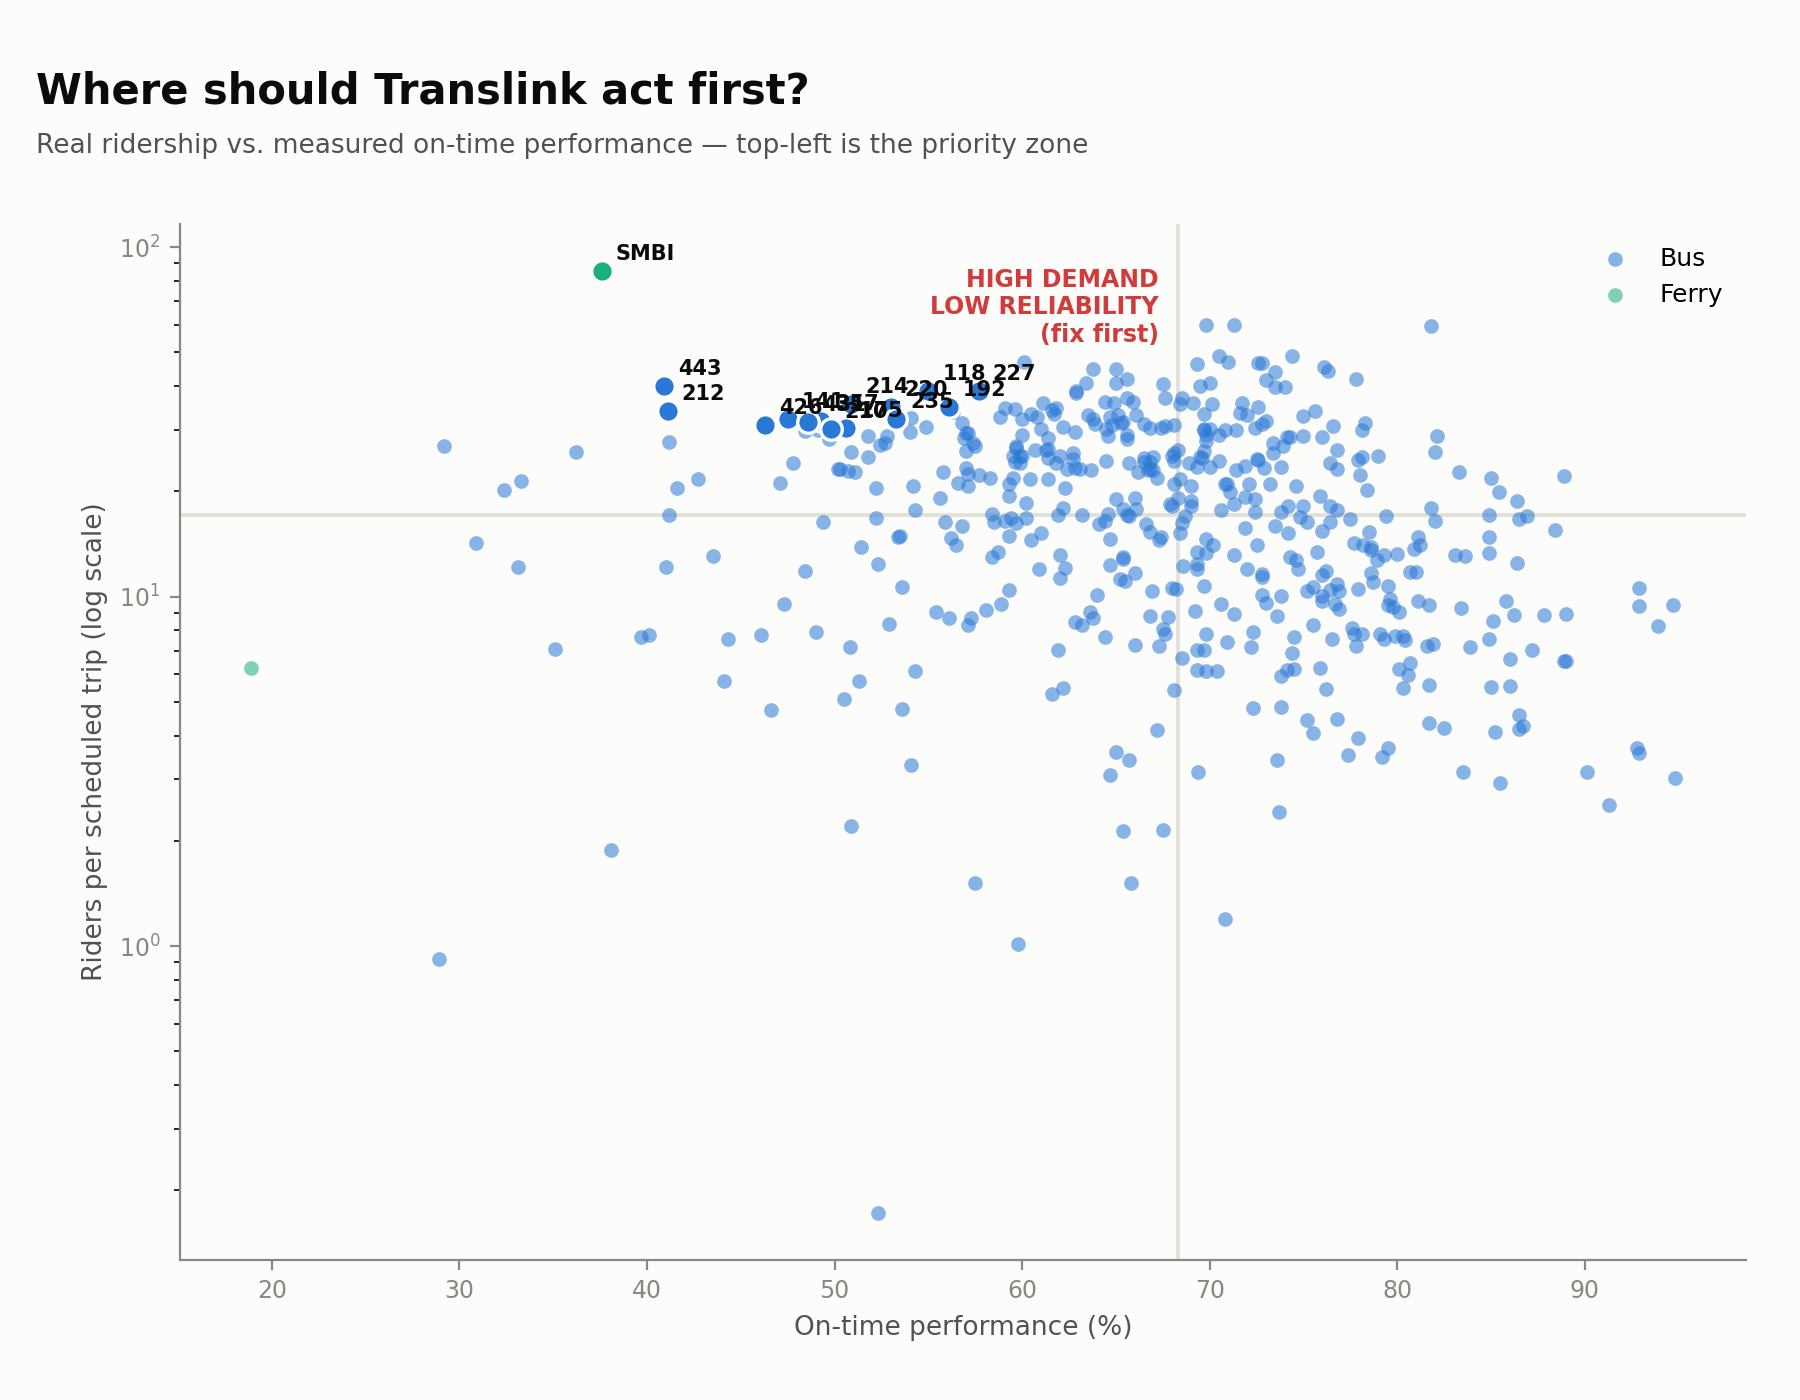
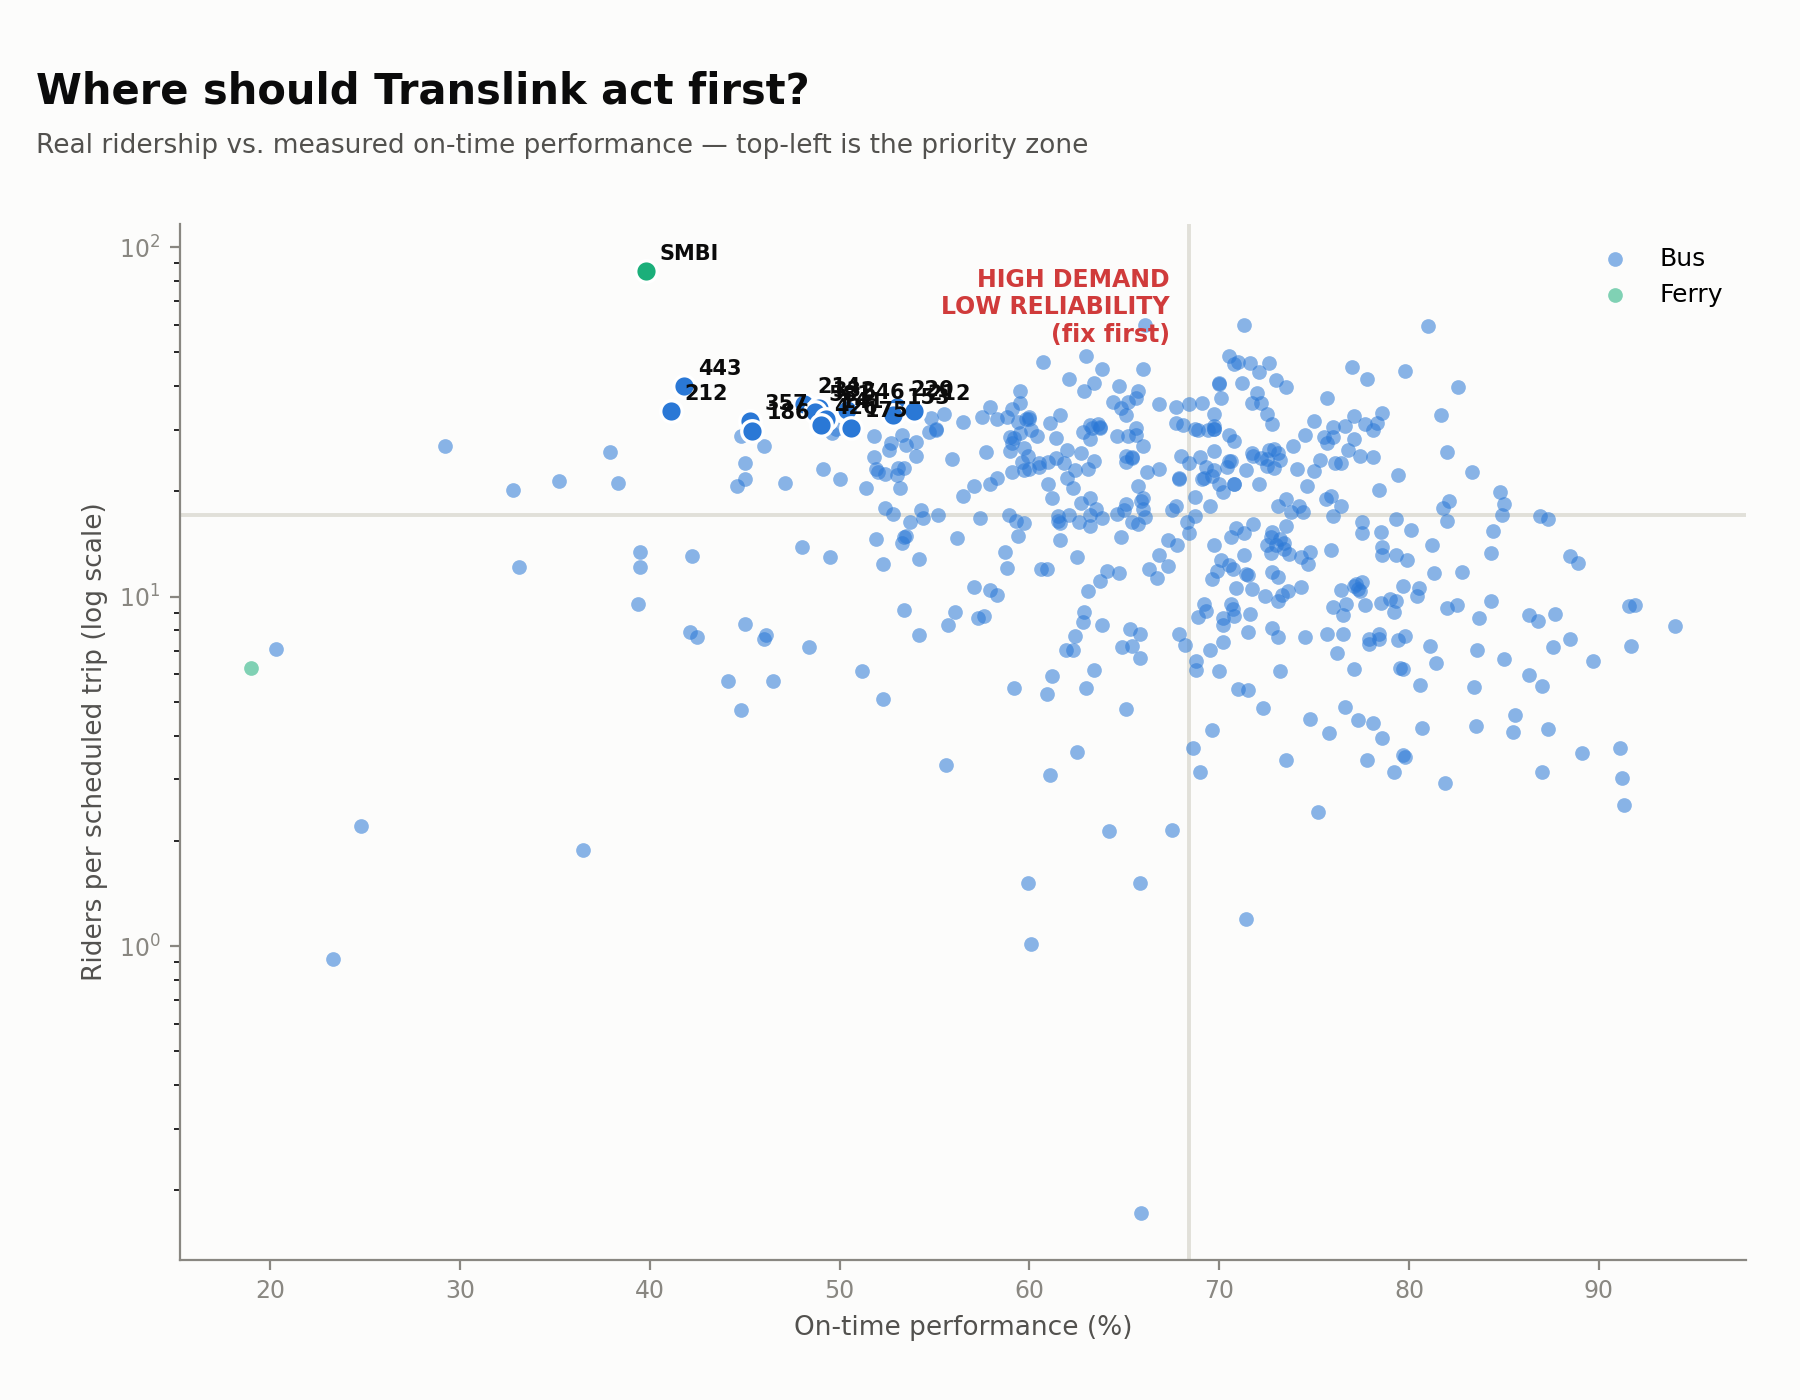
Add scripts/refresh_all.py: one command to regenerate everything
Replaces what had become a manual, easy-to-get-wrong ritual of
running six-plus notebooks/*.py scripts by hand in the right order
every time fresh numbers were needed.

- scripts/refresh_all.py: runs `dbt run` once, then every findings/
  chart script, then the CSV/XLSX exports, in dependency order. Each
  runs in its own subprocess so one failure doesn't abort the rest;
  prints a pass/fail summary and the poller's status at the end.
  Regenerates local files only — doesn't touch git.
- Fixed real duplicated work this surfaced: realtime_summary.py and
  demand_intelligence.py each independently triggered a full `dbt
  run` (including the ~70s mart_stop_delay rebuild) when run back to
  back. Added a SKIP_DBT_REFRESH guard so the orchestrator's single
  upfront run covers both.
- `make refresh` / `make refresh-fast` as a thin convenience wrapper.
- Docs and charts in this commit are a real regeneration from the
  pipeline's first end-to-end run (poller now at 2000+ polls, ~85h).

diff --git a/scripts/refresh_all.py b/scripts/refresh_all.py
@@ -1,0 +1,127 @@
+"""Regenerate every finding, chart, and export in this repo from whatever
+data is currently loaded — the one-command version of what had become a
+manual, error-prone ritual of running six-plus scripts in the right order
+by hand.
+
+Runs `dbt run` exactly once up front (each script that needs the marts
+skips its own internal refresh via SKIP_DBT_REFRESH — see
+notebooks/realtime_summary.py / demand_intelligence.py), then runs every
+notebooks/*.py script that produces a findings doc or chart, in dependency
+order. One script failing doesn't abort the rest — each runs in its own
+subprocess, failures are collected and reported at the end, and the exit
+code reflects whether anything failed.
+
+Does NOT touch git — regenerates files locally only. Review the diff
+(`git status`, `git diff`) and commit yourself; this deliberately stops
+short of auto-committing/pushing to a public repo without a look first.
+
+Usage:
+    python scripts/refresh_all.py
+    python scripts/refresh_all.py --skip-exports   # skip the CSV/XLSX dumps (slower, rarely needed)
+"""
+
+from __future__ import annotations
+
+import argparse
+import os
+import subprocess
+import sys
+import time
+from pathlib import Path
+
+REPO_ROOT = Path(__file__).resolve().parents[1]
+DBT_DIR = REPO_ROOT / "dbt"
+VENV_PYTHON = REPO_ROOT / ".venv" / "bin" / "python"
+
+PIPELINE = [
+    "notebooks/network_summary.py",
+    "notebooks/realtime_summary.py",
+    "notebooks/demand_intelligence.py",
+    "notebooks/priority_routes.py",
+    "notebooks/manly_lota_service_gap.py",
+    "notebooks/density_heatmaps.py",
+    "notebooks/hero_dashboard.py",
+]
+EXPORT_SCRIPTS = [
+    "notebooks/export_week2_data.py",
+    "notebooks/export_demand_data.py",
+]
+
+
+def _env() -> dict:
+    from dotenv import dotenv_values
+
+    return {**os.environ, **dotenv_values(REPO_ROOT / ".env")}
+
+
+def run_dbt() -> bool:
+    print("=== dbt run (once, shared by every script below) ===")
+    env = {**_env(), "DBT_PROFILES_DIR": str(DBT_DIR)}
+    result = subprocess.run(["dbt", "run"], cwd=DBT_DIR, env=env, capture_output=True, text=True, check=False)
+    print(result.stdout[-1500:])
+    if result.returncode != 0:
+        print(result.stderr[-1500:])
+        print("dbt run FAILED — downstream scripts will likely fail too, continuing anyway")
+        return False
+    return True
+
+
+def run_script(rel_path: str) -> tuple[str, bool, float]:
+    print(f"\n=== {rel_path} ===")
+    python = str(VENV_PYTHON) if VENV_PYTHON.exists() else sys.executable
+    env = {**_env(), "SKIP_DBT_REFRESH": "1"}
+    start = time.monotonic()
+    result = subprocess.run([python, rel_path], cwd=REPO_ROOT, env=env, capture_output=True, text=True, check=False)
+    elapsed = time.monotonic() - start
+    print(result.stdout[-1500:])
+    ok = result.returncode == 0
+    if not ok:
+        print(result.stderr[-1500:])
+        print(f"FAILED ({elapsed:.0f}s)")
+    else:
+        print(f"OK ({elapsed:.0f}s)")
+    return rel_path, ok, elapsed
+
+
+def poller_status() -> str:
+    check = subprocess.run(
+        ["pgrep", "-fl", "ingestion.gtfs_realtime_poller"], capture_output=True, text=True, check=False
+    )
+    return "running" if check.stdout.strip() else "NOT running"
+
+
+def main() -> int:
+    parser = argparse.ArgumentParser(description=__doc__)
+    parser.add_argument("--skip-exports", action="store_true", help="Skip the CSV/XLSX export scripts")
+    args = parser.parse_args()
+
+    results: list[tuple[str, bool, float]] = []
+
+    dbt_ok = run_dbt()
+    results.append(("dbt run", dbt_ok, 0.0))
+
+    for script in PIPELINE:
+        results.append(run_script(script))
+
+    if not args.skip_exports:
+        for script in EXPORT_SCRIPTS:
+            results.append(run_script(script))
+
+    print("\n" + "=" * 60)
+    print("SUMMARY")
+    print("=" * 60)
+    for name, ok, elapsed in results:
+        status = "OK  " if ok else "FAIL"
+        print(f"  [{status}] {name} ({elapsed:.0f}s)" if elapsed else f"  [{status}] {name}")
+
+    n_failed = sum(1 for _, ok, _ in results if not ok)
+    total_time = sum(t for _, _, t in results)
+    print(f"\n{len(results) - n_failed}/{len(results)} succeeded in {total_time:.0f}s total")
+    print(f"GTFS-RT poller: {poller_status()}")
+    print("\nNothing was committed — review with `git status`/`git diff` and commit when ready.")
+
+    return 1 if n_failed else 0
+
+
+if __name__ == "__main__":
+    sys.exit(main())

diff --git a/notebooks/realtime_summary.py b/notebooks/realtime_summary.py
@@ -59,6 +59,14 @@ def refresh_dbt_marts() -> None:
 
     from dotenv import dotenv_values
 
+    if os.environ.get("SKIP_DBT_REFRESH"):
+        # Set by scripts/refresh_all.py, which runs `dbt run` once up front —
+        # rebuilding mart_stop_delay (the slowest model, tens of seconds and
+        # growing with the poller's raw.trip_updates) once per pipeline run
+        # instead of once per script that happens to depend on it.
+        print("Skipping dbt refresh (SKIP_DBT_REFRESH set — already refreshed by the caller)")
+        return
+
     env = {**os.environ, **dotenv_values(REPO_ROOT / ".env"), "DBT_PROFILES_DIR": str(DBT_DIR)}
     result = subprocess.run(
         ["dbt", "run"], cwd=DBT_DIR, env=env, capture_output=True, text=True, check=False

diff --git a/notebooks/demand_intelligence.py b/notebooks/demand_intelligence.py
@@ -71,6 +71,12 @@ def refresh_dbt_marts() -> None:
 
     from dotenv import dotenv_values
 
+    if os.environ.get("SKIP_DBT_REFRESH"):
+        # Set by scripts/refresh_all.py, which runs `dbt run` once up front —
+        # see the matching guard in notebooks/realtime_summary.py.
+        print("Skipping dbt refresh (SKIP_DBT_REFRESH set — already refreshed by the caller)")
+        return
+
     env = {**os.environ, **dotenv_values(REPO_ROOT / ".env"), "DBT_PROFILES_DIR": str(DBT_DIR)}
     result = subprocess.run(["dbt", "run"], cwd=DBT_DIR, env=env, capture_output=True, text=True, check=False)
     print(result.stdout[-2000:])

diff --git a/docs/week2_findings.md b/docs/week2_findings.md
@@ -1,15 +1,15 @@
 # Week 2 findings — on-time performance & bunching
 
-Collection window: **2026-09-19 05:07 – 2026-09-21 21:57 UTC** (64h 49m, 1,292 polls) — our own measurement from polled GTFS-Realtime data, not Translink's official on-time stat.
+Collection window: **2026-09-19 05:07 – 2026-09-24 08:24 UTC** (123h 16m, 2,029 polls) — our own measurement from polled GTFS-Realtime data, not Translink's official on-time stat.
 
 "On time" here means arriving no more than 1 minute early and no more than 5 minutes late — a common industry convention. Early running counts against a route because it strands passengers who timed their arrival to the published schedule, not just late running.
 
 ## Citywide
 
-- **69.6%** of stop visits on time
-- **14.4%** more than 5 minutes late
-- **15.9%** more than 1 minute early
-- 585,592 stop visits measured
+- **69.2%** of stop visits on time
+- **14.8%** more than 5 minutes late
+- **16.0%** more than 1 minute early
+- 626,012 stop visits measured
 
 ### Weekday vs weekend
 
@@ -17,7 +17,7 @@ A blended figure across the whole collection window hides a real difference — 
 
 | | On time | Late | Early | Stop visits |
 |---|---|---|---|---|
-| Weekday | 68.6% | 12.0% | 19.4% | 257,847 |
+| Weekday | 67.8% | 13.1% | 19.2% | 298,267 |
 | Weekend | 70.5% | 16.3% | 13.2% | 327,745 |
 
 ![On-time performance by mode, weekday vs weekend](images/week2_on_time_by_mode.png)
@@ -26,61 +26,61 @@ A blended figure across the whole collection window hides a real difference — 
 
 | Route | Mode | On time | Late | Early | Stop visits | Trips |
 |---|---|---|---|---|---|---|
-| F50 | Ferry | 16.3% | 0.5% | 83.2% | 202 | 116 |
-| 50 | Bus | 24.6% | 6.6% | 68.9% | 122 | 15 |
+| F50 | Ferry | 19.0% | 0.5% | 80.6% | 211 | 118 |
+| 529 | Bus | 20.3% | 61.0% | 18.6% | 59 | 6 |
+| 50 | Bus | 23.3% | 8.7% | 68.0% | 150 | 18 |
+| 263 | Bus | 24.8% | 74.4% | 0.9% | 117 | 5 |
 | 116 | Bus | 29.2% | 68.1% | 2.7% | 408 | 7 |
-| 40 | Bus | 30.7% | 19.9% | 49.4% | 166 | 18 |
-| 70 | Bus | 32.1% | 0.0% | 67.9% | 81 | 6 |
+| 471 | Bus | 32.8% | 16.6% | 50.6% | 253 | 12 |
 | 182 | Bus | 33.1% | 34.3% | 32.6% | 1,390 | 33 |
-| 471 | Bus | 33.3% | 18.6% | 48.0% | 204 | 10 |
-| 581 | Bus | 35.2% | 34.4% | 30.3% | 122 | 14 |
+| 416 | Bus | 35.2% | 1.9% | 62.9% | 105 | 6 |
 | N199 | Bus | 35.5% | 0.0% | 64.5% | 186 | 7 |
-| 414 | Bus | 36.2% | 7.2% | 56.5% | 138 | 7 |
-| CLBR | Rail | 36.8% | 0.0% | 63.2% | 144 | 6 |
-| 275 | Bus | 37.3% | 34.7% | 28.0% | 300 | 8 |
+| 40 | Bus | 36.5% | 6.6% | 56.9% | 181 | 19 |
 | N226 | Bus | 37.7% | 55.5% | 6.8% | 382 | 5 |
-| 142 | Bus | 38.3% | 19.1% | 42.6% | 47 | 10 |
-| SMBI | Ferry | 39.5% | 1.1% | 59.3% | 435 | 81 |
+| 142 | Bus | 37.9% | 12.1% | 50.0% | 58 | 12 |
+| 161 | Bus | 38.3% | 14.0% | 47.6% | 1,119 | 26 |
+| CLBR | Rail | 38.4% | 0.0% | 61.6% | 336 | 14 |
+| 202 | Bus | 39.4% | 8.8% | 51.9% | 457 | 14 |
 
 ## Best on-time performance (routes with ≥30 stop visits across ≥5 distinct trips)
 
 | Route | Mode | On time | Late | Early | Stop visits | Trips |
 |---|---|---|---|---|---|---|
-| SHBR | Rail | 100.0% | 0.0% | 0.0% | 105 | 13 |
 | BRSH | Rail | 100.0% | 0.0% | 0.0% | 98 | 12 |
-| L1 | Tram/Light Rail | 99.1% | 0.8% | 0.2% | 10,912 | 435 |
+| SHBR | Rail | 100.0% | 0.0% | 0.0% | 105 | 13 |
+| SPRP | Rail | 99.5% | 0.0% | 0.5% | 208 | 9 |
+| L1 | Tram/Light Rail | 99.4% | 0.4% | 0.2% | 11,422 | 448 |
+| RPSP | Rail | 99.0% | 0.0% | 1.0% | 194 | 7 |
+| BRRP | Rail | 99.0% | 0.0% | 1.0% | 196 | 9 |
+| BRSH | Rail | 98.5% | 0.0% | 1.5% | 133 | 12 |
+| SPRP | Rail | 98.3% | 0.0% | 1.7% | 175 | 5 |
+| RPBR | Rail | 98.0% | 0.0% | 2.0% | 299 | 13 |
 | SHBR | Rail | 97.5% | 1.9% | 0.5% | 364 | 35 |
-| RPBR | Rail | 97.2% | 0.0% | 2.8% | 287 | 13 |
-| 686 | Bus | 96.7% | 0.0% | 3.3% | 305 | 13 |
-| 689 | Bus | 95.0% | 0.3% | 4.7% | 319 | 15 |
-| BRFG | Rail | 94.9% | 0.0% | 5.1% | 236 | 15 |
-| DBBR | Rail | 94.9% | 0.0% | 5.1% | 176 | 13 |
-| SPRP | Rail | 94.6% | 2.4% | 3.0% | 539 | 16 |
-| 266 | Bus | 94.6% | 1.8% | 3.6% | 167 | 5 |
-| CASP | Rail | 94.4% | 0.0% | 5.6% | 215 | 8 |
-| SPRP | Rail | 94.2% | 1.0% | 4.8% | 776 | 23 |
-| SHBR | Rail | 93.7% | 0.0% | 6.3% | 441 | 35 |
-| CAIP | Rail | 93.7% | 0.0% | 6.3% | 335 | 11 |
+| IPRW | Rail | 97.1% | 0.0% | 2.9% | 34 | 6 |
+| SPCA | Rail | 97.0% | 0.0% | 3.0% | 169 | 8 |
+| BRIP | Rail | 96.6% | 0.0% | 3.4% | 326 | 12 |
+| DBBR | Rail | 96.3% | 0.0% | 3.7% | 163 | 14 |
+| CASP | Rail | 96.2% | 0.0% | 3.8% | 158 | 7 |
 
 ## Bunching (two vehicles on the same route within 400m, same poll)
 
 | Route | Bunching snapshots | Distinct polls bunched | First seen | Last seen |
 |---|---|---|---|---|
 | SHBR | 6,198 | 620 | 22:37 | 13:21 |
+| M1 | 3,905 | 1,419 | 05:07 | 08:22 |
 | BDBR | 3,819 | 428 | 02:29 | 13:21 |
-| 700 | 2,573 | 931 | 05:07 | 21:56 |
-| M1 | 2,516 | 986 | 05:07 | 21:56 |
-| 705 | 1,916 | 838 | 05:09 | 21:56 |
-| M2 | 1,624 | 730 | 05:07 | 21:56 |
-| 199 | 1,479 | 401 | 20:01 | 21:56 |
-| 60 | 1,385 | 361 | 20:01 | 21:56 |
-| 701 | 1,171 | 640 | 05:07 | 21:56 |
-| DBBR | 1,156 | 424 | 02:33 | 13:21 |
-| 704 | 1,154 | 574 | 05:07 | 21:56 |
-| 555 | 1,072 | 519 | 05:09 | 21:55 |
-| 765 | 972 | 546 | 05:07 | 21:56 |
-| 196 | 934 | 567 | 05:08 | 13:10 |
-| 199 | 927 | 521 | 05:07 | 13:17 |
+| 199 | 3,732 | 891 | 20:01 | 08:22 |
+| 60 | 3,263 | 802 | 20:01 | 08:22 |
+| 700 | 3,025 | 1,251 | 05:07 | 08:22 |
+| 705 | 2,832 | 1,252 | 05:09 | 08:22 |
+| M2 | 2,600 | 1,037 | 05:07 | 08:22 |
+| 61 | 1,725 | 862 | 20:01 | 08:20 |
+| 555 | 1,560 | 754 | 05:09 | 08:21 |
+| 701 | 1,522 | 872 | 05:07 | 08:22 |
+| 100 | 1,522 | 692 | 20:25 | 08:22 |
+| 196 | 1,492 | 801 | 20:18 | 08:22 |
+| 333 | 1,490 | 811 | 20:25 | 08:21 |
+| 340 | 1,423 | 762 | 20:27 | 08:22 |
 
 ## Method & caveats
 

diff --git a/docs/priority_routes_findings.md b/docs/priority_routes_findings.md
@@ -10,23 +10,23 @@ Every other finding in this repo looks at demand or reliability separately. This
 
 | Route | Mode | Avg weekday riders | Riders/trip (percentile) | On-time % (percentile) |
 |---|---|---|---|---|
-| SMBI (Southern Moreton Bay Island) | Ferry | 5,208 | 85 (100th) | 38% (2nd) |
-| 443 (Moggil - City Rocket) | Bus | 639 | 40 (96th) | 41% (3rd) |
+| SMBI (Southern Moreton Bay Island) | Ferry | 5,208 | 85 (100th) | 40% (3rd) |
+| 443 (Moggil - City Rocket) | Bus | 639 | 40 (96th) | 42% (3rd) |
 | 212 (Carindale - City/Valley via Seven Hills) | Bus | 1,121 | 34 (92nd) | 41% (3rd) |
-| 214 (Cannon Hill - City Express) | Bus | 534 | 36 (93rd) | 51% (9th) |
-| 141 (Browns Plains - City Rocket) | Bus | 548 | 32 (89th) | 48% (5th) |
+| 214 (Cannon Hill - City Express) | Bus | 534 | 36 (93rd) | 48% (6th) |
+| 332 (Zillmere - City Rocket via Spring Hill) | Bus | 553 | 35 (92nd) | 49% (7th) |
+| 581 (Brisbane City - Slacks Creek) | Bus | 642 | 34 (91st) | 49% (6th) |
+| 546 (Park Ridge - City via Greenbank & Griffith Uni) | Bus | 684 | 34 (92nd) | 50% (8th) |
+| 357 (Brendale - City Express) | Bus | 541 | 32 (88th) | 45% (5th) |
 | 220 (Wynnum - City Express) | Bus | 1,083 | 35 (93rd) | 53% (11th) |
-| 118 (Forest Lake - City) | Bus | 465 | 39 (95th) | 55% (13th) |
-| 357 (Brendale - City Express) | Bus | 541 | 32 (88th) | 49% (7th) |
-| 431 (Kenmore South - City Rocket) | Bus | 189 | 32 (87th) | 49% (6th) |
-| 426 (Kenmore - City Rocket via Chapel Hill) | Bus | 216 | 31 (86th) | 46% (5th) |
-| 192 (Yeronga - City via UQ Lakes and Highgate Hill) | Bus | 1,950 | 35 (93rd) | 56% (14th) |
-| 235 (Balmoral - City/Valley via Thynne Road) | Bus | 1,736 | 32 (89th) | 53% (11th) |
-| 227 (Wynnum - City) | Bus | 1,397 | 39 (95th) | 58% (18th) |
+| 141 (Browns Plains - City Rocket) | Bus | 548 | 32 (89th) | 49% (7th) |
+| 153 (Drewvale - City Rocket) | Bus | 331 | 33 (90th) | 53% (11th) |
+| 426 (Kenmore - City Rocket via Chapel Hill) | Bus | 216 | 31 (86th) | 49% (7th) |
+| 212 (Carindale - City/Valley via Seven Hills) | Bus | 1,121 | 34 (92nd) | 54% (13th) |
+| 186 (Wishart - City Rocket) | Bus | 567 | 30 (83rd) | 45% (5th) |
 | 175 (Garden City - City via Logan Rd) | Bus | 4,301 | 30 (85th) | 51% (8th) |
-| 210 (Cannon Hill - City/Valley) | Bus | 1,540 | 30 (84th) | 50% (7th) |
 
-**SMBI (Southern Moreton Bay Island)** tops the list: 5,208 riders/weekday — 100th percentile demand — running on-time only 38% of the time (2nd percentile reliability, near the bottom citywide). This is a heavily-used service that's unreliable most of the time it runs, which is a materially bigger problem than either a quiet-but-unreliable route or a busy-but-punctual one.
+**SMBI (Southern Moreton Bay Island)** tops the list: 5,208 riders/weekday — 100th percentile demand — running on-time only 40% of the time (3rd percentile reliability, near the bottom citywide). This is a heavily-used service that's unreliable most of the time it runs, which is a materially bigger problem than either a quiet-but-unreliable route or a busy-but-punctual one.
 
 Two routes from the Manly/Lota/Cleveland case study (`docs/manly_lota_service_gap.md`) — 220 and 227 — appear in this citywide top list too, independently confirming that case study's finding: they're not just locally notable, they're among the routes Brisbane's whole network most needs to fix.
 

diff --git a/README.md b/README.md
@@ -87,7 +87,22 @@ docker compose up -d          # starts Postgres+PostGIS
 pip install -r requirements.txt
 python -m ingestion.gtfs_static           # loads the static schedule
 python -m ingestion.gtfs_realtime_poller  # polls live feeds (Ctrl+C to stop)
+python -m ingestion.od_trips              # loads the 3 most recent months of real ridership
 ```
+
+### Regenerating everything
+
+Once the poller's been running a while and `od_trips` is loaded, one command regenerates every
+finding/chart/export in this repo from current data:
+
+```bash
+make refresh          # dbt run once, then every notebooks/*.py script, then the CSV/XLSX exports
+make refresh-fast     # same, minus the slow exports
+```
+
+See [`scripts/refresh_all.py`](scripts/refresh_all.py) for what actually runs and in what order —
+it replaced what had become a manual, easy-to-get-wrong ritual of invoking six-plus scripts by
+hand. It only regenerates local files; nothing is committed or pushed automatically.
 
 ## Week 1 findings
 

diff --git a/docs/density_findings.md b/docs/density_findings.md
@@ -24,7 +24,7 @@ Three spatial views of the same Greater Brisbane geography, generated by `notebo
 | Cultural Centre station, platform 1 | 1,431,295 |
 | Cavill Avenue station, platform 1 | 1,092,742 |
 
-## Bunching: 85,420 recorded snapshots
+## Bunching: 106,299 recorded snapshots
 
 The bunching map is the most concentrated of the three — it's dominated by whichever corridors happened to be polled during a bunching event in the collection window logged in `docs/week2_findings.md`, so treat it as "where we've caught bunching so far," not an exhaustive map of every bunching-prone corridor (same caveat as `mart_bunching_events` throughout this repo).
 
